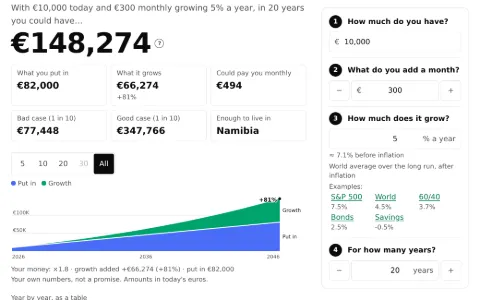
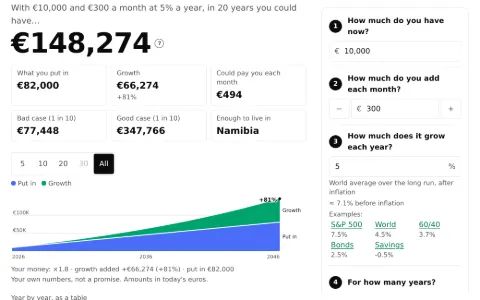
Wealth Lens: README and screenshots of the centred first screen
The start screen at 360, 1366 and 1920 px in English and Spanish, and
the hub's pictures with the new English.

Claude-Session: https://claude.ai/code/session_01BcV4Bj22BrAC8vej9vmEnb

diff --git a/projects/wealth-lens/README.md b/projects/wealth-lens/README.md
@@ -51,13 +51,18 @@ cambiar. Todo lo visible está en palabras simples: "real", "nominal",
   maneja con la tecnología: poco texto suelto, cada cosa se explica por su
   forma, y el móvil primero (el 55 % de las visitas en Europa):
   1. **Cuatro pasos iguales**: número, pregunta corta y una sola casilla.
-     *How much do you have?* (€), *What do you add a month?* (€, con − / +
-     de €50), *How much does it grow?* (% al año) y *For how many years?*
-     (1-60, empieza en 20, con − / +). Sin líneas de ayuda salvo en el paso
-     3. Columnas de ancho fijo y preguntas en una línea: la tarjeta mide lo
-     mismo en inglés y en español a 360, 1366 y 1920 px (lo comprueba
-     `npm run test:browser`). Los importes empiezan vacíos, con un ejemplo
-     gris y en cursiva que no parece un dato. Casillas de 16 px (el iPhone
+     *How much do you have now?* (€), *How much do you add each month?*
+     (€, con − / + de €50), *How much does it grow each year?* (%) y *For
+     how many years?* (1-60, empieza en 20, con − / +). Sin líneas de ayuda
+     salvo en el paso 3. Columnas de ancho fijo y cada pregunta en una caja
+     de altura fija (dos líneas en el móvil y junto al resultado, una en
+     pantalla ancha): la tarjeta mide lo mismo en inglés y en español a
+     360, 1366 y 1920 px (lo comprueba `npm run test:browser`). Antes del
+     primer resultado, el titular, la tarjeta, *More options* y la fila de
+     confianza forman una sola columna centrada, del ancho de la tarjeta.
+     Las cuatro casillas alinean el texto y el ejemplo a la izquierda. Los
+     importes empiezan vacíos, con un ejemplo gris y en cursiva que no
+     parece un dato. Casillas de 16 px (el iPhone
      no amplía al tocarlas), teclado numérico, y Enter pasa al paso
      siguiente y del último al botón. Debajo de los pasos, **See my
      result**, lo único destacado de la tarjeta: funciona con los dos
@@ -70,9 +75,10 @@ cambiar. Todo lo visible está en palabras simples: "real", "nominal",
   2. **El paso 3, una casilla de %**, con 5 ya escrito: las acciones del
      mundo crecieron un 5,2 % al año tras la inflación de 1900 a 2024
      (UBS Global Investment Returns Yearbook 2025; la fuente está en *How
-     it works*). Bajo la casilla, en pequeño, "≈ 7.1% before inflation";
-     una línea, "World average over the long run, after inflation" (o de
-     dónde sale la cifra elegida, o "Your own number, after inflation"); y
+     it works*). Bajo la casilla, una línea, "World average over the long
+     run, after inflation" (o de dónde sale la cifra elegida, o "Your own
+     number, after inflation"); debajo, en pequeño, "≈ 7.1% before
+     inflation", sin hueco antes de los ejemplos; y
      **Examples:** *S&P 500 7.5%*, *World 4.5%*, *60/40*, *Bonds* y
      *Savings*, enlaces que rellenan la casilla y marcan cuál coincide. La
      cifra de un ejemplo usa sus propios años pasados; cualquier otra es
